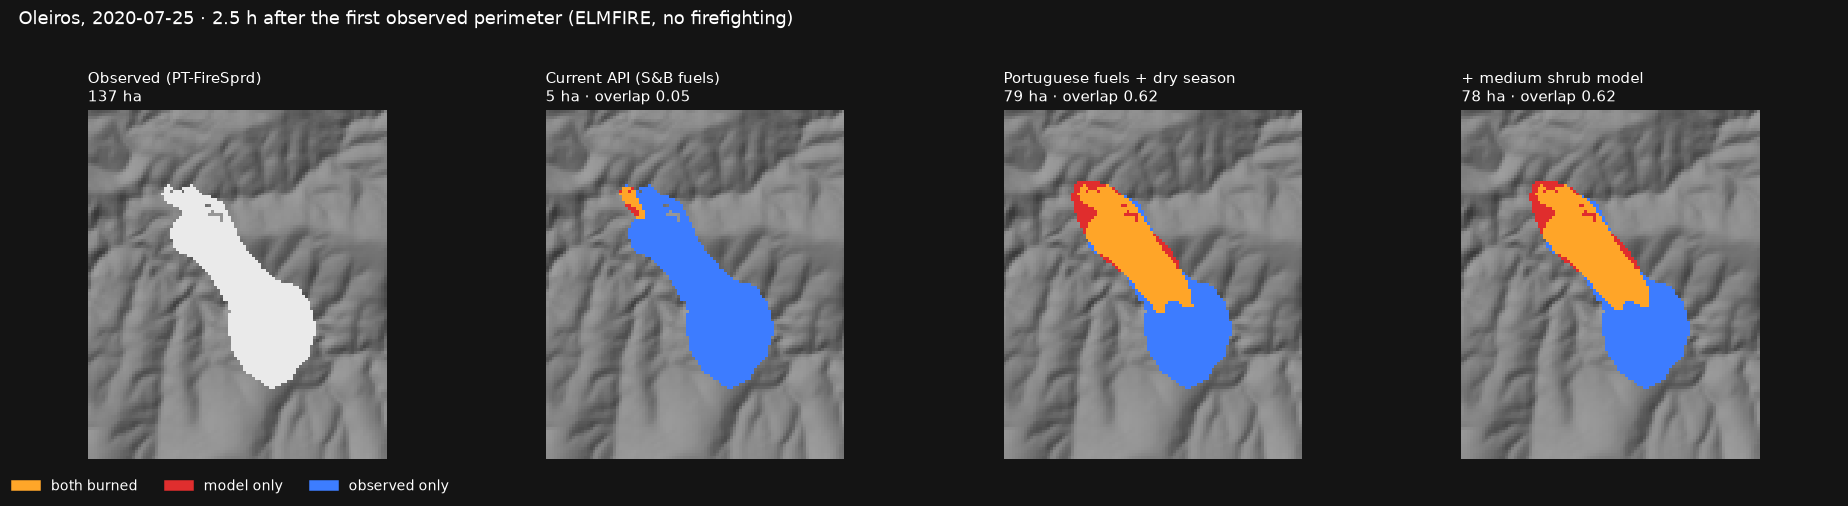
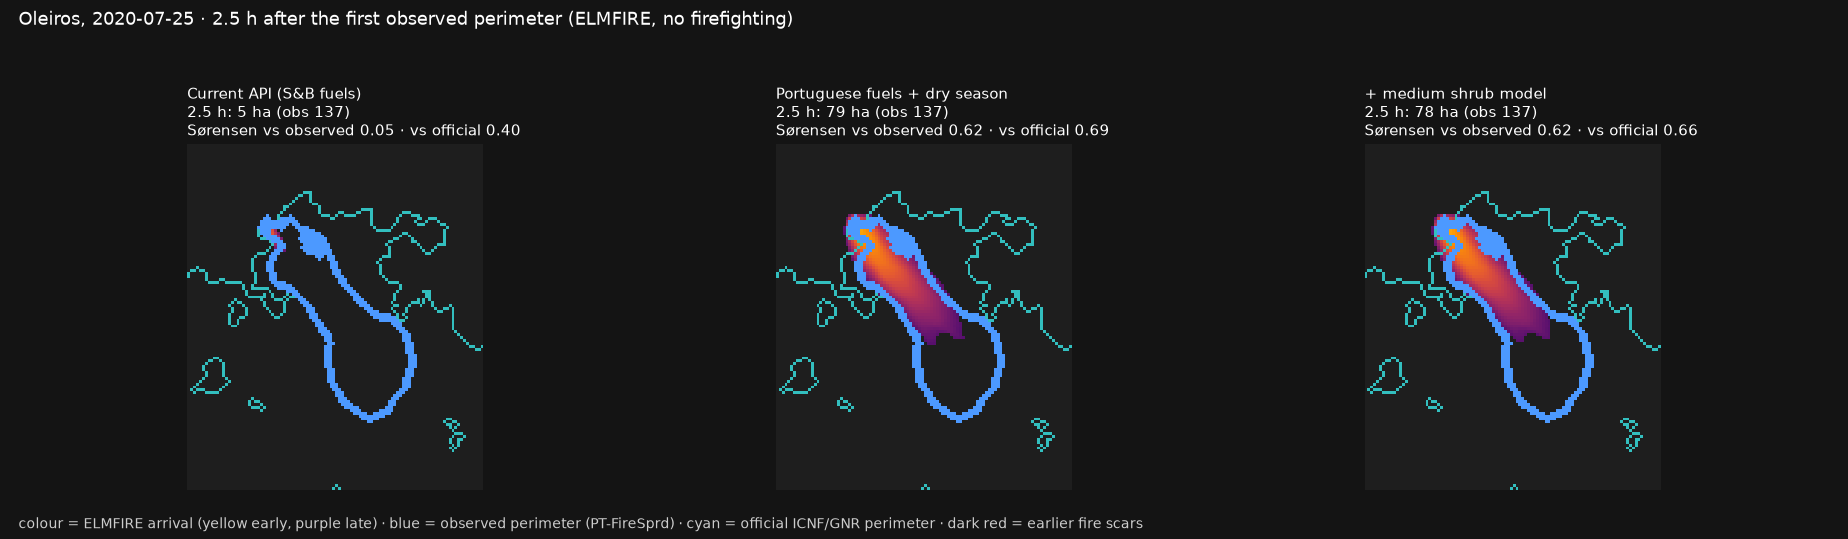
hindcast: figuras de reserva no estilo da validação de Vieira (P7)

diff --git a/hindcast/backup_figs.py b/hindcast/backup_figs.py
@@ -1,5 +1,5 @@
-"""Simple pitch backup figures: per fire, the observed fire and three model versions at one observed step, on a
-hillshade. Orange = both burned, red = model only, blue = observed only. -> hindcast/fires/<id>/backup_<h>h.png
+"""Simple pitch backup figures: per fire, three model versions at one observed step, in the style of the Vieira
+validation figure: arrival time in colour, observed perimeter blue, official cyan, scars dark red. -> hindcast/fires/<id>/backup_<h>h.png
 
     hindcast/.venv/bin/python -I hindcast/backup_figs.py [--early]
 
@@ -19,7 +19,9 @@ from matplotlib.patches import Patch  # noqa: E402
 
 HERE = Path(__file__).resolve().parent
 sys.path.insert(0, str(HERE))
-from common import CACHE, fires, observed_arrival, sorensen  # noqa: E402
+from common import CACHE, cells, evidence, fires, observed_arrival, official, sorensen  # noqa: E402
+from scipy import ndimage  # noqa: E402
+from shapely.geometry import shape  # noqa: E402
 
 FIRES = ["VieiradoMinho_10082016", "CabeceirasdeBasto_06092016", "VilaNovadeCerveira_08082015", "SeverdoVouga_09082016",
          "Guarda_23082017", "Oleiros_25072020", "CastroMarim_16082021", "ViladeRei_20072019", "Monchique_03082018"]
@@ -51,29 +53,36 @@ def figure(fid, early):
     pad = 25
     r0, r1, c0, c1 = max(rows.min() - pad, 0), rows.max() + pad, max(cols.min() - pad, 0), cols.max() + pad
     runs = [(n, lab) for n, lab in RUNS if (CACHE / fid / f"{n}.npy").exists()]
-    fig, axs = plt.subplots(1, len(runs) + 1, figsize=(4.2 * (len(runs) + 1), 4.6), facecolor="#141414")
-    obs_ha = obs.sum() * fire.cellsize ** 2 / 1e4
-    for i, ax in enumerate(axs):
-        ax.set_facecolor("#141414")
-        img = np.dstack([shade * .55 + .08] * 3)
-        if i == 0:
-            img[obs] = (0.92, 0.92, 0.92)
-            title, sub = "Observed (PT-FireSprd)", f"{obs_ha:.0f} ha"
-        else:
-            n, title = runs[i - 1]
-            a = np.load(CACHE / fid / f"{n}.npy")
-            sim = np.isfinite(a) & (a <= t)
-            img[obs & sim], img[sim & ~obs], img[obs & ~sim] = BOTH, MODEL, OBS
-            sub = f"{sim.sum() * fire.cellsize ** 2 / 1e4:.0f} ha · overlap {sorensen(obs, sim):.2f}"
+    ev, feats = evidence(fid)
+    off = official(feats)
+    offm = cells(fire, off) if off is not None else np.zeros_like(obs)
+    scar = np.zeros_like(obs)
+    for f in feats:
+        if f["properties"]["kind"] == "scar":
+            scar |= cells(fire, shape(f["geometry"]))
+    edge = lambda m: m & ~ndimage.binary_erosion(m)  # noqa: E731
+    cmap = plt.get_cmap("inferno")
+    fig, axs = plt.subplots(1, len(runs), figsize=(5.6 * len(runs), 4.9), facecolor="#141414")
+    for ax, (n, title) in zip(np.atleast_1d(axs), runs):
+        a = np.load(CACHE / fid / f"{n}.npy")
+        sim = np.isfinite(a) & (a <= t)
+        img = np.full(obs.shape + (3,), 0.12)
+        img[scar] = (0.45, 0.06, 0.06)
+        img[sim] = cmap(0.25 + 0.6 * (1 - np.clip(a[sim] / t, 0, 1)))[:, :3]   # early = yellow, late = purple
+        img[edge(offm)] = (0.2, 0.75, 0.75)
+        img[ndimage.binary_dilation(edge(obs))] = (0.3, 0.6, 1.0)
+        ha = sim.sum() * fire.cellsize ** 2 / 1e4
         ax.imshow(img[r0:r1, c0:c1], interpolation="nearest")
-        ax.set_title(f"{title}\n{sub}", color="white", fontsize=10, loc="left")
+        ax.set_title(f"{title}\n{h:g} h: {ha:.0f} ha (obs {obs.sum() * fire.cellsize ** 2 / 1e4:.0f})\n"
+                     f"Sørensen vs observed {sorensen(obs, sim):.2f}"
+                     + (f" · vs official {sorensen(offm, np.isfinite(a)):.2f}" if off is not None else ""),
+                     color="white", fontsize=10, loc="left")
         ax.axis("off")
     name = fire.meta.get("name", fid)
     fig.suptitle(f"{name}, {fire.steps[0]['time'][:10]} · {h:g} h after the first observed perimeter "
                  f"(ELMFIRE, no firefighting)", color="white", fontsize=12, x=0.01, ha="left")
-    fig.legend(handles=[Patch(color=BOTH, label="both burned"), Patch(color=MODEL, label="model only"),
-                        Patch(color=OBS, label="observed only")], loc="lower left", ncol=3, frameon=False,
-               labelcolor="white", fontsize=9)
+    fig.text(0.01, 0.02, "colour = ELMFIRE arrival (yellow early, purple late) · blue = observed perimeter "
+             "(PT-FireSprd) · cyan = official ICNF/GNR perimeter · dark red = earlier fire scars", color="#ccc", fontsize=9)
     plt.tight_layout(rect=(0, 0.06, 1, 0.94))
     out = HERE / "fires" / fid / f"backup_{h:g}h.png"
     plt.savefig(out, dpi=110, facecolor=fig.get_facecolor())
